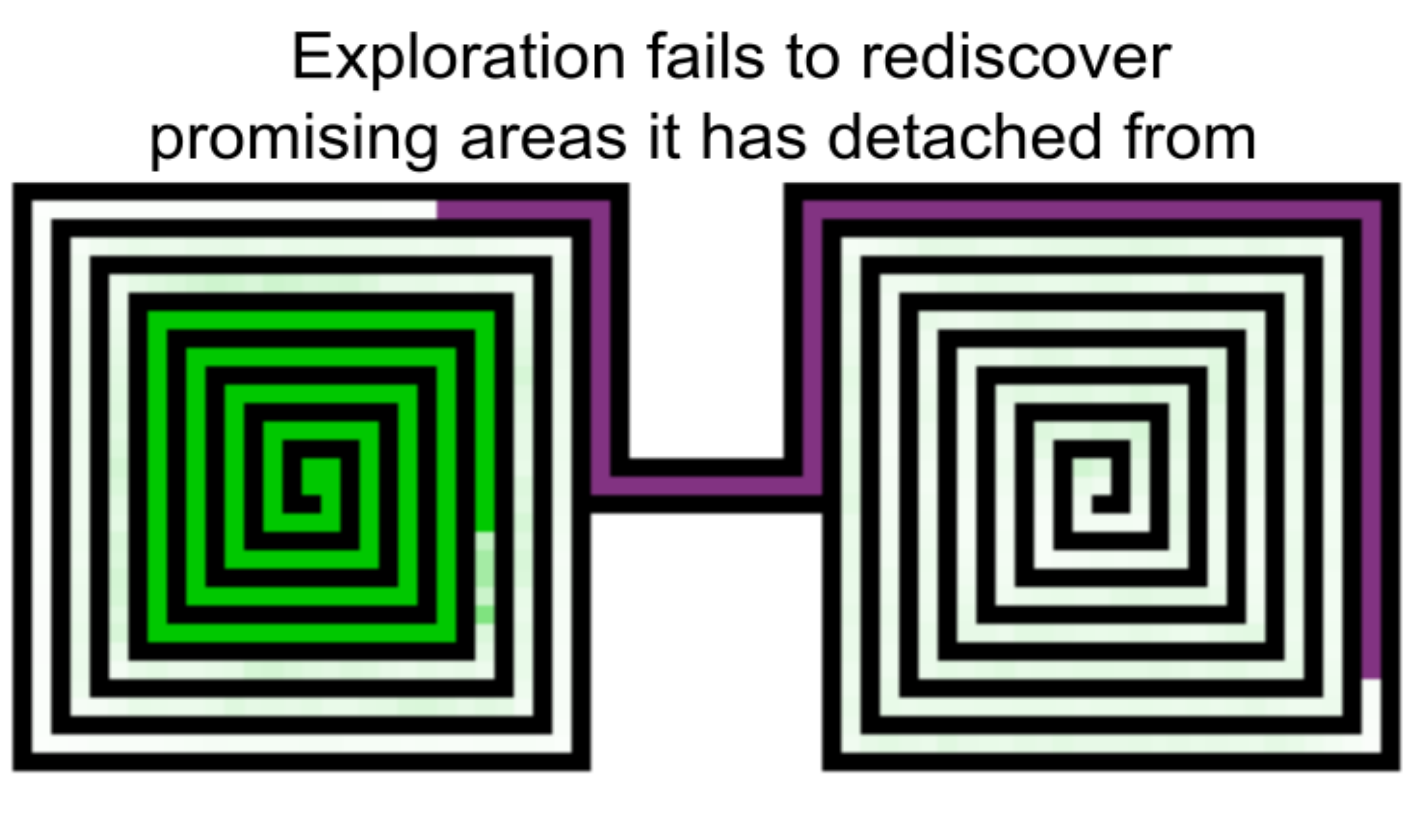
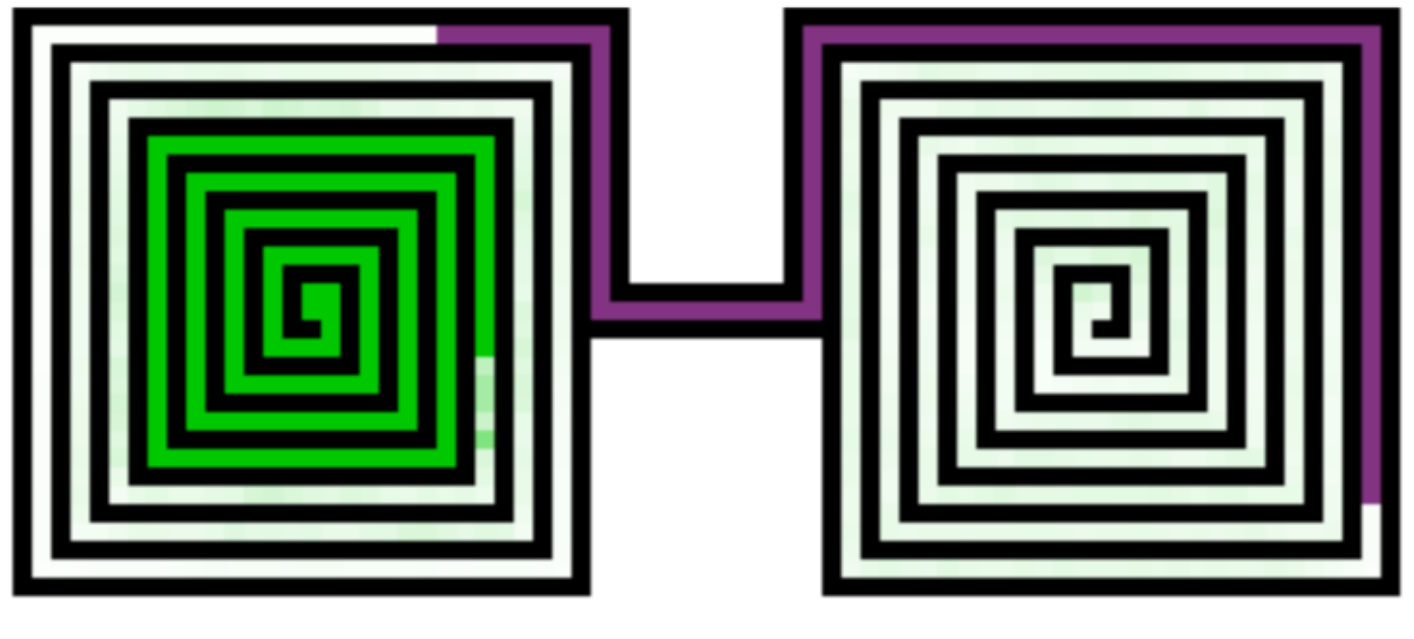
Finish chapter exploration

diff --git a/thesis/thesis.tex b/thesis/thesis.tex
@@ -1105,8 +1105,6 @@ pdfkeywords     = {deep reinforcement learning, sparse rewarding environments, p
 
     An overview of the just described classification with practical approaches given can be observed in Table~\ref{tab:clasification_im_rl}.
 
-
-
 \newpage
     \begin{table}[h]
         \centering
@@ -1321,54 +1319,52 @@ pdfkeywords     = {deep reinforcement learning, sparse rewarding environments, p
 
     \section{Current State of the Art Method}
 
-    The currently best performing approach on \textit{Montezuma's Revenge} is hold by \citeauthor{ecoffet_go-explore_2019} who were able to drastically improve the state of the art with a four times higher score than previously introduced methods.
-    Despite the fact that \gls{im} algorithms were the most promising solutions to encourage exploration in sparse environments, with their paper \usebibentry{ecoffet_go-explore_2019}{title}, the authors presented a promising solution which however is not based on \gls{im}.
-    The reason why their proposed algorithm performs so well is that it tackles a fundamental issue of intrinsically motivated exploration which hinders the agent to further improve.
-
- \begin{figure}[h]
-        \centering
-        \includegraphics[width=\textwidth]{figures/exploration_problem.png}
-        \caption[An illustration of the algorithm introduced in "\usebibentry{pathak_self-supervised_2019}{title}"]{An illustration of the algorithm introduced in "\usebibentry{pathak_self-supervised_2019}{title}" where the current observation is denoted as $x_t$ and $r_t^i$ stands for the intrinsic reward\protect\footnotemark}
-        \label{fig:exploration_problem}
-    \end{figure}
-
-
-    \footnotetext{\citep[\p{3}]{ecoffet_go-explore_2019}}
-
-    With there
-"Go-Explore" by \citeauthor{ecoffet_go-explore_2019} is currently the best performing approach to \textit{Montezuma's Revenge}, directly follow by "Random Network Distillation" from the authors \citeauthor{burda_exploration_2018}
-
-
-    A  even those with intrinsic motivation, which
-is the dominant method to encourage exploration and improve performance on hard-
-exploration domains. To address this shortfall, we introduce a new algorithm called
-Go-Explore. It exploits the following principles: (1) remember states that have
-previously been visited, (2) first return to a promising state (without exploration),
-then explore from it, and (3) solve simulated environments through exploiting any
-available means (including by introducing determinism), then robustify (create a
-policy that can reliably perform the solution) via imitation learning. The combined
-effect of these principles generates dramatic performance improvements on hard-
-exploration problems. On Montezuma’s Revenge, without being provided any
-domain knowledge, Go-Explore scores over 43,000 points, almost 4 times the
-previous state of the art. Go-Explore can also easily harness human-provided
-domain knowledge, and when augmented with it Go-Explore scores a mean of
-over 650,000 points on Montezuma’s Revenge. Its max performance of 18 million
-surpasses the human world record by an order of magnitude, thus meeting even
-the strictest definition of “superhuman” performance. On Pitfall, Go-Explore with
-domain knowledge is the first algorithm to score above zero. Its mean performance
-of almost 60,000 points also exceeds expert human performance. Because Go-
-Explore can produce many high-performing demonstrations automatically and
-cheaply, it also outperforms previous imitation learning work in which the solution
-was provided in the form of a human demonstration. Go-Explore opens up many
-new research directions into improving it and weaving its insights into current RL
-algorithms. It may also enable progress on previously unsolvable hard-exploration
-problems in a variety of domains, especially the many that often harness a simulator
-during training (e.g. robotics).
+    The current record on \textit{Montezuma's Revenge} is hold by \citeauthor{ecoffet_go-explore_2019} who were able to drastically improve the state of the art with a four times higher score than previously introduced methods.
+    Despite the fact that \gls{im} algorithms were the best performing solutions to encourage exploration in sparse environments, with their paper "\usebibentry{ecoffet_go-explore_2019}{title}", the authors presented a promising solution which however is not based on \gls{im}.
+    Surprisingly, their exploration approach is based on an agent that selects actions randomly which on its own would usually not perform well.
+    However, they added a significant prior step to exploration as they teach the agent to re-enter previously visited promising position before it starts exploring again.
+    This step solves a fundamental issue of intrinsically motivated exploration which can be observed in Figure~\ref{fig:exploration_problem}.
+    Although \gls{im} is normally the standard approach to environments with spares rewards, they all have one fundamental problem in common where the agent fails to re-enter already visited states as the path which leads to those states is not interesting anymore and thus hinders the agent to further discover its environment.
 
     \begin{figure}[h]
         \centering
-        \includegraphics[width=0.8\textwidth]{figures/go_explore.png}
-        \caption[The simple, yet astonishingly good performing algorithm Go-Explore]{The simple, yet astonishingly good performing algorithm Go-Explore proposed by \citeauthor{ecoffet_go-explore_2019} \protect\footnotemark}
+        \includegraphics[width=0.75\textwidth]{figures/exploration_problem.png}
+        \caption[An illustration of intrinsically motivated exploration methods where an agent is unable to rediscover promising areas]{An illustration of intrinsically motivated exploration methods where an agent is unable to rediscover promising areas\protect\footnotemark}
+        \label{fig:exploration_problem}
+    \end{figure}
+
+    \footnotetext{\citep[\p{3}]{ecoffet_go-explore_2019}}
+
+    In Figure~\ref{fig:exploration_problem}, this problem is illustrated where the white path denotes already discovered parts of an agent's environment, the green one stands for intrinsic rewards it has yet to obtain, and the purple area marks the path it has explored in the current episode.
+    This example shows the problem of an agent who is uninterested in visiting known states again and thus unable to ever discover the green intrinsically rewarding area.
+
+    According to the authors, their exploration algorithm is structured as follows:
+
+
+    \begin{quote}
+        "It exploits the following principles: (1) remember states that have
+        previously been visited, (2) first return to a promising state (without exploration),
+        then explore from it, and (3) solve simulated environments through exploiting any
+        available means (including by introducing determinism), then robustify (create a
+        policy that can reliably perform the solution) via imitation learning."
+
+        \hfill~\cite[\p{1}]{ecoffet_go-explore_2019}
+    \end{quote}
+
+    A graphical illustration of this algorithm can be inspected in Figure~\ref{fig:go_explore} where states are encoded in so-called cells which are low-resolution, grey-scale images.
+
+    With this algorithm, the trained agent was able to achieve superhuman performance and thus surpass human players in the game of \textit{Montezuma's Revenge}.
+    Furthermore, in another difficult exploration game called \textit{Pitfall}, it was the first one which managed a score above zero.
+    Lastly, another achievement worth mentioning, is that their algorithm outperformed state-of-the-art solutions of imitation learning where an agent is trained on recorded man-made gameplay due to the fact that their approach can cheaply create such demonstrations on its own.
+    For all these reasons, \textit{Go-Explore} is a very promising direction for further research, especially focusing on how to combine existing methods with this novel idea.
+
+    \newpage
+
+    \begin{figure}[h]
+        \centering
+        \includegraphics[width=0.70\textwidth]{figures/go_explore.png}
+        \caption[The simple, yet astonishingly good performing algorithm "Go-Explore"]{The simple, yet astonishingly good performing algorithm "Go-Explore" by \citeauthor{ecoffet_go-explore_2019} which is currently the best performing approach to \textit{Montezuma's Revenge}, directly follow by "Random Network Distillation" from the authors \citeauthor{burda_exploration_2018} \protect\footnotemark}
+
         \label{fig:go_explore}
     \end{figure}
 
@@ -1495,7 +1491,7 @@ during training (e.g. robotics).
     \printindex
 
 % Add a glossary.
-     \printglossaries
+    \printglossaries
 
 % Add a bibliography.
     \bibliographystyle{abbrvnat}

diff --git a/src/run.py b/src/run.py
@@ -183,7 +183,7 @@ def add_rollout_params(parser):
 
 
 def add_experiment_params(parser):
-    parser.add_argument('--env', help='environment ID', default='BreakoutNoFrameskip-v4',
+    parser.add_argument('--env', help='environment ID', default='MontezumaRevengeNoFrameskip-v4',
                         type=str)
     parser.add_argument('--seed', help='RNG seed', type=int, default=0)
     parser.add_argument('--feat_learning', type=str, default="none",
